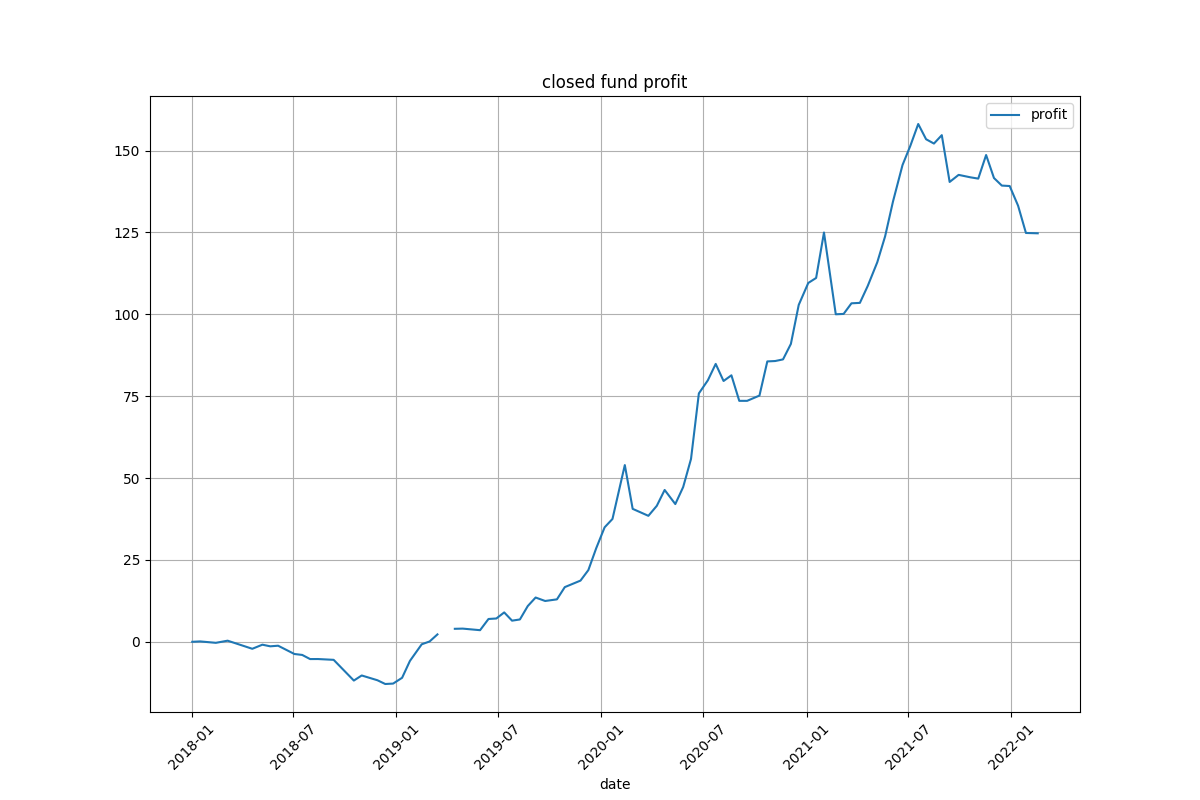
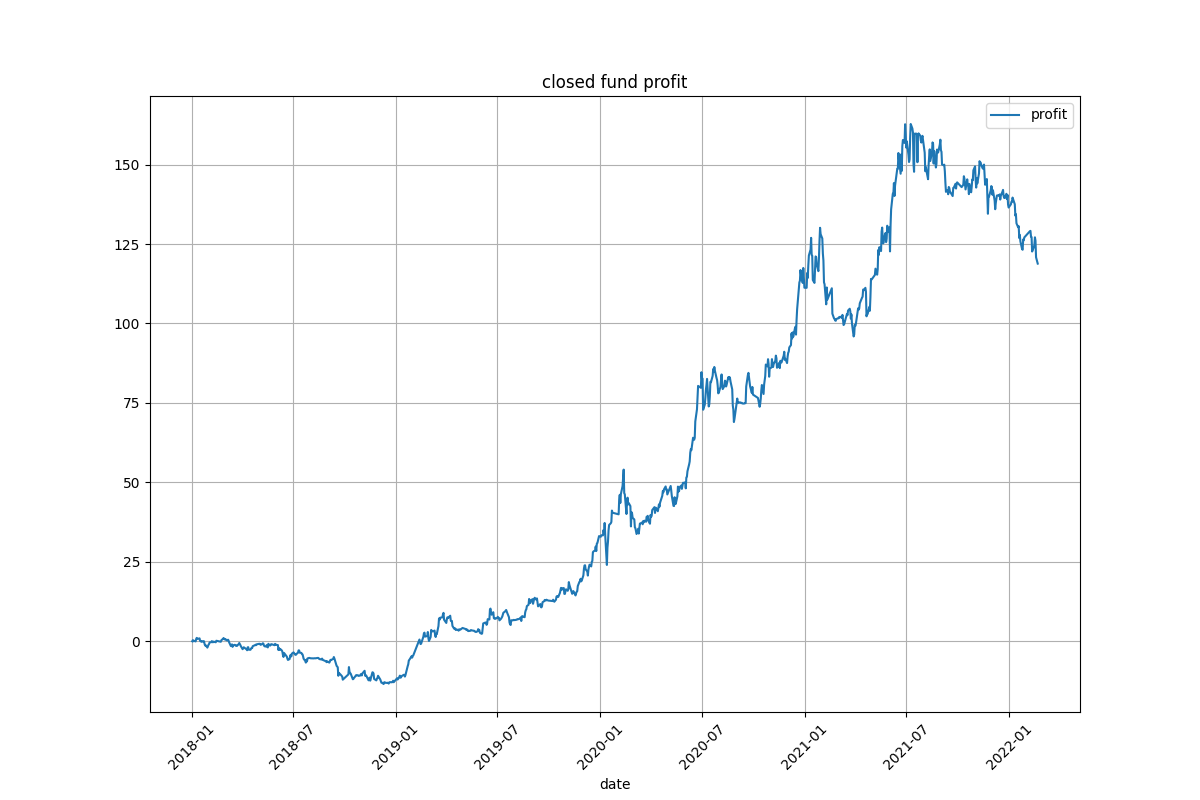
封基

diff --git a/fund/closed_end_fund_backtrade/backtrade_fund_weekly_share_increment.py b/fund/closed_end_fund_backtrade/backtrade_fund_weekly_share_increment.py
@@ -1,3 +1,4 @@
+# 作者公众号：可转债量化分析
 import pandas as pd
 from fund_data_source import DataSource
 import numpy as np
@@ -17,7 +18,7 @@ class Runner:
         self.app.all_market_data()
 
     def other(self):
-        logger.info(self.app.get_closed_fund_netvalue('160143'))
+        self.compare_all_market()
 
     def position_intialize(self):
         '''
@@ -55,6 +56,21 @@ class Runner:
 
         return max_withdraw  # 变成百分比
 
+    def daily_netvalue(self,df_copy,i,profit,date):
+        '''
+        非调仓阶段 获取持仓的收益率
+        '''
+        holding_list = list(self.Position.keys())
+        if i + self.interval - 1 >= len(df_copy):
+            return
+
+        for code in holding_list:
+            fund_netvalue = df_copy.iloc[i + self.interval - 1][code]
+            profit += self.Position[code] * fund_netvalue
+
+        ratio = profit / self.origin_cash * 100 - 100
+        self.profit_list.append({'date': date, 'profit': ratio})
+
     def backtrade(self):
         self.position_intialize()
 
@@ -70,19 +86,25 @@ class Runner:
         df_copy = df_copy.loc[self.start:]
 
         final_profit = None
-        for i in range(0, len(df), self.interval):
+
+        for i in range(len(df)):
             profit = self.cash
+            date = df.iloc[i].name.date()
+            if i%self.interval!=0:
+                self.daily_netvalue(df_copy,i,profit,date)
+                continue
+
             t = df.iloc[i:i + self.interval].sum()
             top_netvalue_increase = t.nlargest(self.N)
             target = top_netvalue_increase.index
-            date = df.iloc[i].name.date()
 
             if i + self.interval - 1 >= len(df):
                 continue
 
-            target_result = df.iloc[i + self.interval - 1].loc[target]
+            target_result = df_copy.iloc[i + self.interval - 1].loc[target]
 
             if all(target_result.isnull()):
+                logger.error('empty value occur!')
                 continue
 
             holding_list = list(self.Position.keys())
@@ -113,20 +135,46 @@ class Runner:
                     self.cash -= self.Position[code] * fund_netvalue
                     msg = '{} 买入{}，基金当前净值 {},买入份额{:.2f}'.format(date, code, fund_netvalue, self.Position[code])
                     logger.info(msg)
-            final_profit = profit
 
-        self.evaluate(final_profit)
+        self.evaluate()
 
-    def evaluate(self, profit):
+    def evaluate(self):
         _profit_list = [i.get('profit')/100+1 for i in self.profit_list]
         max_withdraw = self.get_max_withdraw(_profit_list)
-        logger.info(self.MSG.format(profit, profit / self.origin_cash * 100 - 100))
-        logger.info('策略最大回撤为{}%'.format(max_withdraw*100))
+        last_value = self.profit_list[-1].get('profit')
+        logger.info('总收益率{:.2f}%'.format(last_value))
+        logger.info('策略最大回撤为{:.2f}%'.format(max_withdraw*100))
         profit_df = pd.DataFrame(self.profit_list)
+        profit_df = profit_df.dropna(axis=0)
         profit_df.to_excel('backtrade.xlsx',encoding='utf8')
         ax = profit_df.plot(x='date', y='profit', grid=True, title='closed fund profit', rot=45, figsize=(12, 8))
         fig = ax.get_figure()
         fig.savefig('封基轮动收益率曲线.png')
+
+    def each_fund_profit(self,row):
+        row = row.dropna()
+        # print(row)
+        percent = (row[-1] - row[0]) / row[0]
+        year = (row.index[-1]-row.index[0]).days/365
+        yiled_ratio = (1+percent)**(1/year)-1
+        return yiled_ratio*100
+
+    def compare_all_market(self):
+        '''
+        所有封基的中位数
+        '''
+        self.position_intialize()
+        _df = self.app.get_data(self.source)
+
+        _df['净值日期'] = _df['净值日期'].astype('datetime64[ns]')
+        df_copy = _df.set_index(['净值日期', 'code']).unstack()['累计净值']
+        df_copy.index = pd.to_datetime(df_copy.index, format='%Y-%m-%d')
+        df_copy = df_copy.loc[self.start:]
+
+        result = df_copy.apply(self.each_fund_profit,axis=0)
+        print(result)
+        print('年化收益率中位数',np.median(result))
+        print('年化收益率平均',np.mean(result))
 
     def run(self):
         self.func()

diff --git a/fund/closed_end_fund_backtrade/fund_data_source.py b/fund/closed_end_fund_backtrade/fund_data_source.py
@@ -1,3 +1,4 @@
+# 作者公众号：可转债量化分析
 import json
 import sys
 import akshare as ak
@@ -6,8 +7,6 @@ from loguru import logger
 sys.path.append('../../')
 
 # 封基回撤
-
-# mongo get fund code
 
 class DataSource():
 

diff --git a/fund/closed_end_fund_backtrade/main.py b/fund/closed_end_fund_backtrade/main.py
@@ -1,3 +1,5 @@
+# 作者公众号：可转债量化分析
+
 import fire
 from backtrade_fund_weekly_share_increment import Runner
 
